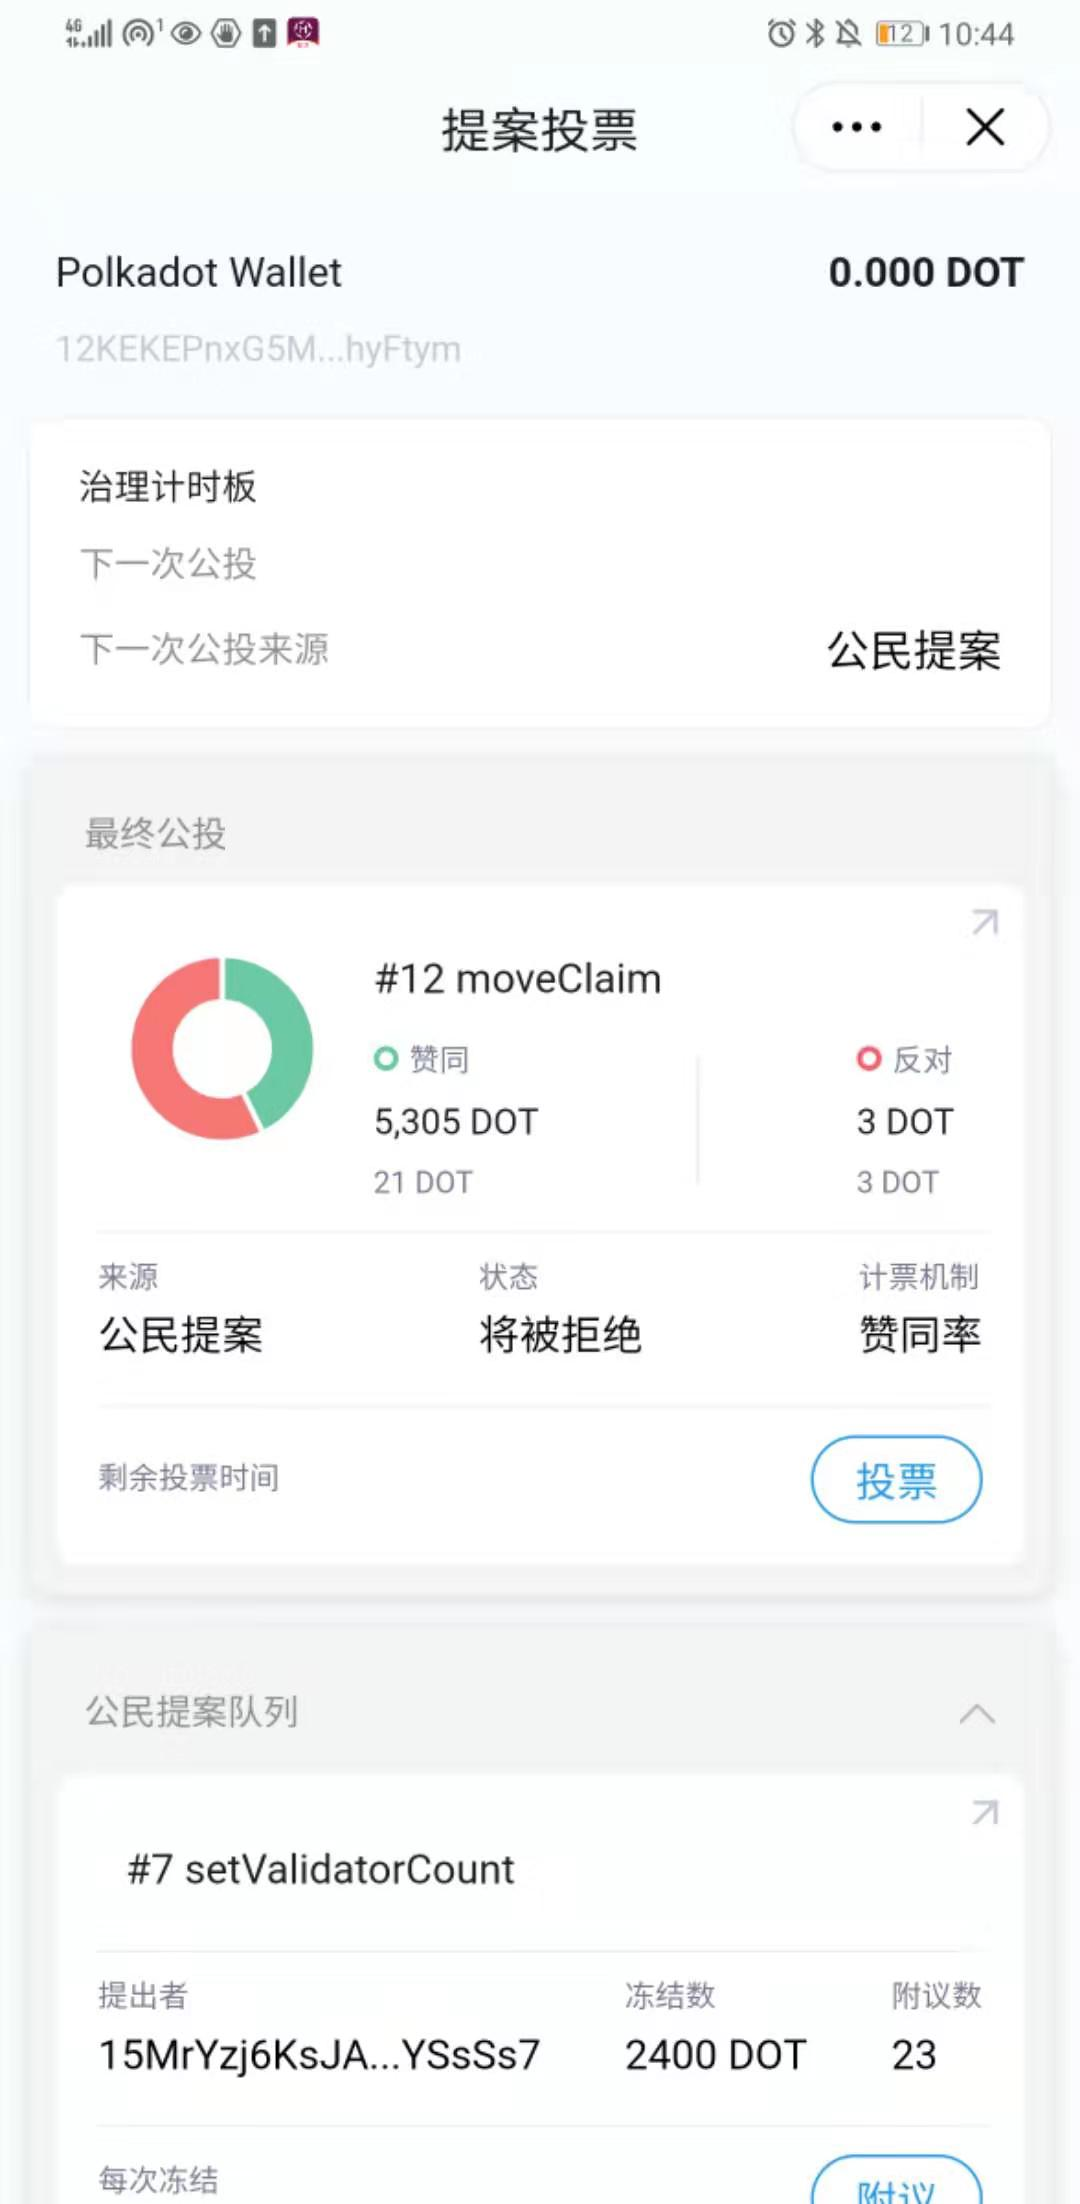
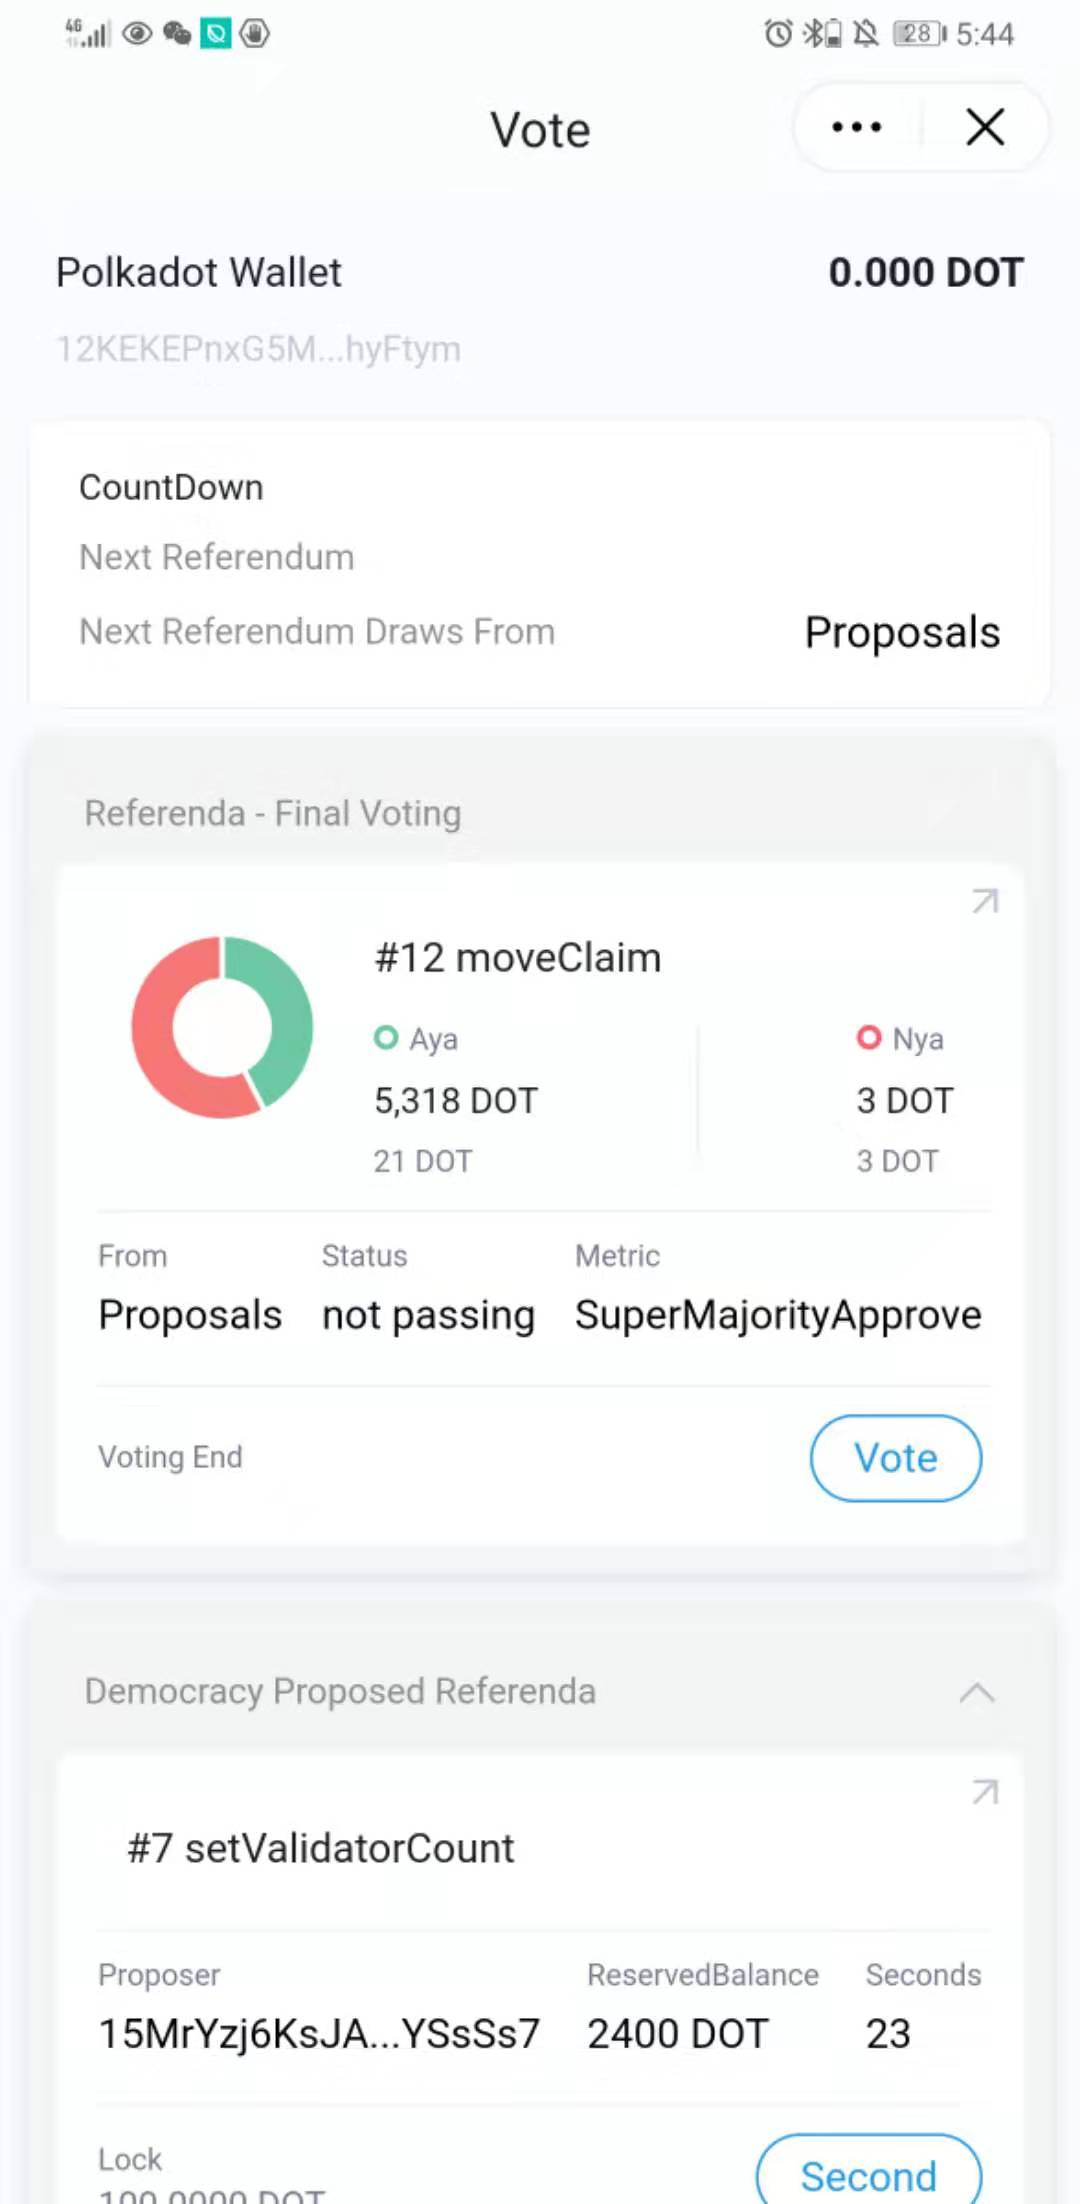
english version screenshots and fix grammar

diff --git a/Litentry/governance-app.md b/Litentry/governance-app.md
@@ -10,25 +10,25 @@ Short description: Governance-focused Mobile App for all Substrate-based network
 ---
 ## 1. Context of Proposal
 
-Hanwen Cheng is the previous product owner of Parity Signer. He has rich experience in building mobile and web application, and also very familiar with Substrate based tools.
+Hanwen Cheng is the previous product owner of Parity Signer. He has rich experience in building mobile and web applications, and also very familiar with Substrate based tools.
 
-Litentry Technologies GmbH is a technical company focus on building cross-chain identity aggregator. Which includes the substrate-based network and related tools. The team has solid substrate development experience and also focus on the mobile engineering.
+Litentry Technologies GmbH is a technology company focus on building a cross-chain identity aggregator. Which includes the substrate-based network and related tools. The team has solid substrate development experience and also focus on mobile engineering.
 
 ## 2.	Problem statement: 
 
-a.Low Voting Participation Rate: Currently the on-chain governance partcipating rate is quite low, even for big decisions like Kusama denomination, there is only about 10% of staker holder take part in the vote.
+a.Low Voting Participation Rate: Currently the on-chain governance participation rate is quite low, even for big decisions like Kusama denomination, there is only about 10% of staker holder take part in the vote.
 
-b. Missing Identity Governance Stats: When voting for the council members, it is hard to know who make the most contribution to the ecosystem and who participates most in the disucssions. There is no dashboard to show the on-chain governance stats of identity. Also, on Polkadot.js app and Polkassembly, the tooltip of an identity is verified information within limited fields, need more information when user browser and attend governance.
+b. Missing Identity Governance Stats: When voting for the council members, it is hard to know who make the most contribution to the ecosystem and who participates most in the discussions. There is no dashboard to show the on-chain governance stats of identity. Also, on Polkadot.js app and Polkassembly, the tooltip of identity is limited in certain fields, need more information when user browser and attend governance.
 
-c. Currently there is only Polkawallet has native support for governance functions after browsing the wallets from https://wiki.polkadot.network/docs/en/build-wallets . The others using integrated governance DApp in a WebView, most of wallets does not even has governance functions. Each mobile app has their own governance UI, the engineering power is wasted and lack interoperability.   
+c. Currently there is only Polkawallet has native support for governance functions after browsing the wallets from https://wiki.polkadot.network/docs/en/build-wallets . The others using integrated governance DApp in a WebView, most wallets do not even have governance functions. Each mobile app has its own governance UI, the engineering power is wasted and lacks interoperability.   
 
 Imtoken |  Math Wallet | Polkawallet
 :-------------------------:|:-------------------------:|:---|
 ![imtoken](./imgs/GovernanceImtoken.jpeg)  |  ![mathwallet](./imgs/GovernanceMath.jpeg)| ![polkawallet](./imgs/GovernancePolkawallet.jpeg)
 
-d. The polkadot.js app is moslty used for experienced users or developers. In addition, it includes all the UI to interact with the substrate-based blockchain, and it is aims to be a general-purpose front-end application.
+d. The polkadot.js app is mostly used for experienced users or developers. In addition, it includes all the UI to interact with the substrate-based blockchain, and it aims to be a general-purpose front-end application.
 
-e. Currently, there is no any mobile application could relay the transaction from other wallet on Polkadot ecosystem, Parity Signer and Math Wallet could sign the transaction from Polkadot.js. The wallet ecosystem is relatively closed. 
+e. Currently, there is no any mobile application could relay the transaction from other wallets on Polkadot ecosystem, Parity Signer and Math Wallet could sign the transaction from Polkadot.js. The wallet ecosystem is relatively closed. 
 
 ## 3.	Proposal Objective/solution/s:
 
@@ -52,7 +52,7 @@ We want to create a governance mobile application which could:
 
 #### Milestone 2: Integrate identity registration
 * Offer user interface to register Identity on Polkadot/Kusama.
-* Submit a new automatic registrar with status of each field on Polkadot/Kusama.
+* Submit a new automatic registrar with the status of each field on Polkadot/Kusama.
 * Show Identity registration Status on Polkadot/Kusama. 
 
 #### Milestone 3: Identity Dashboard
@@ -64,7 +64,7 @@ We want to create a governance mobile application which could:
 
 #### Milestone 5 Governance Score and Lottery integration
 * Be able to do OCG actions on different networks.
-* Add gamification score for user who joined on-chain governance.
+* Add gamification score for users who joined on-chain governance.
 * Integrate substrate [lottery](https://hackmd.io/68rduBydTEy4X-ULevd90g) support
 
 ### Network Benefit
@@ -80,9 +80,9 @@ We want to create a governance mobile application which could:
 
 ## 4. Why Polkadot Network.
 
-The governance on Polkadot affect the most of the people, and it is of the most important among all the substrate-based networks. 
+The governance on Polkadot affects most of the people, and it is of the most important among all the substrate-based networks. 
 
-The technical implementation does not has much diffenrece when we compare Polkadot/Kusama/other Substrate-based networks. So we are doing the work firstly on both Polkadot and Kusama, and then it will be extended to all the substrate-based network.
+The technical implementation does not have much difference when we compare Polkadot/Kusama/other Substrate-based networks. So we are doing the work firstly on both Polkadot and Kusama, and then it will be extended to all the substrate-based networks.
 
  ## 5. Payments and Conditions
  
